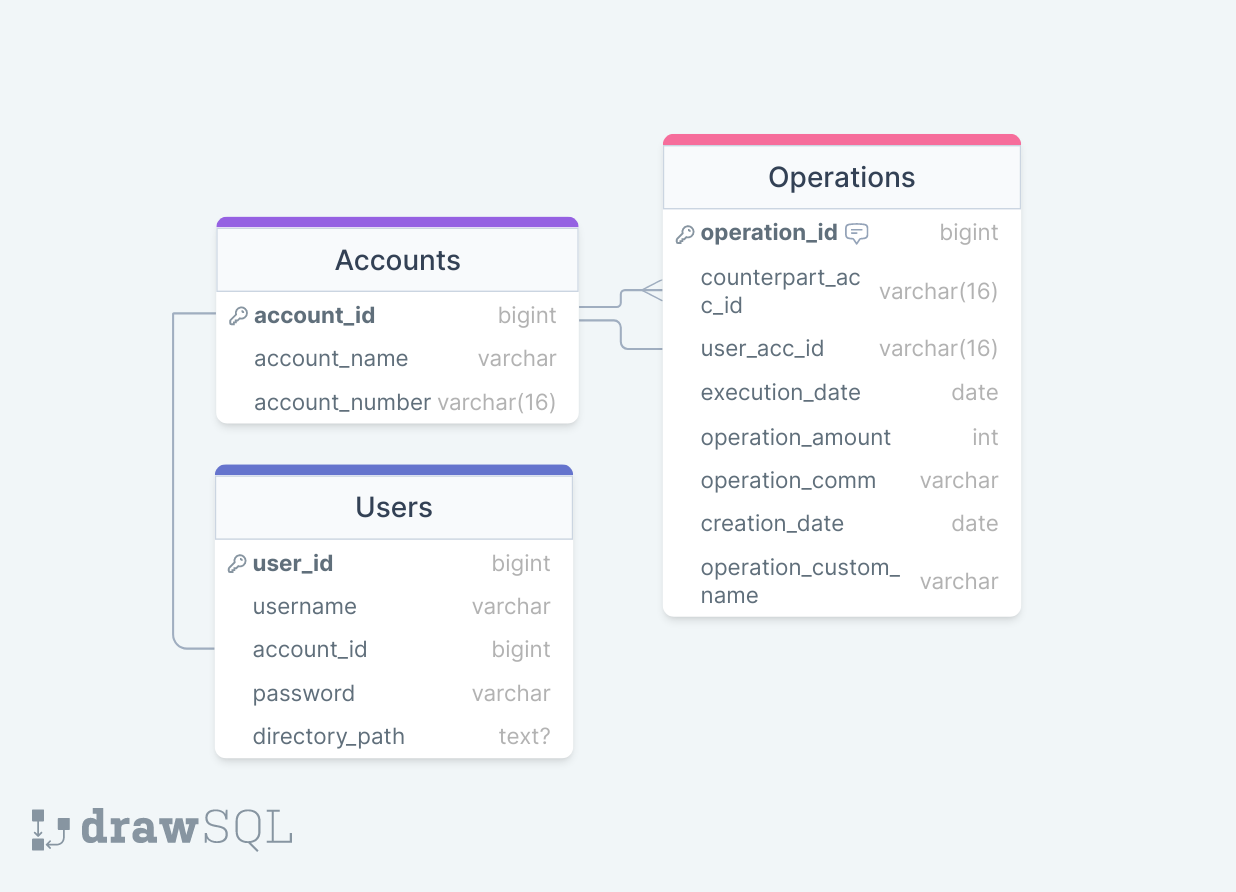
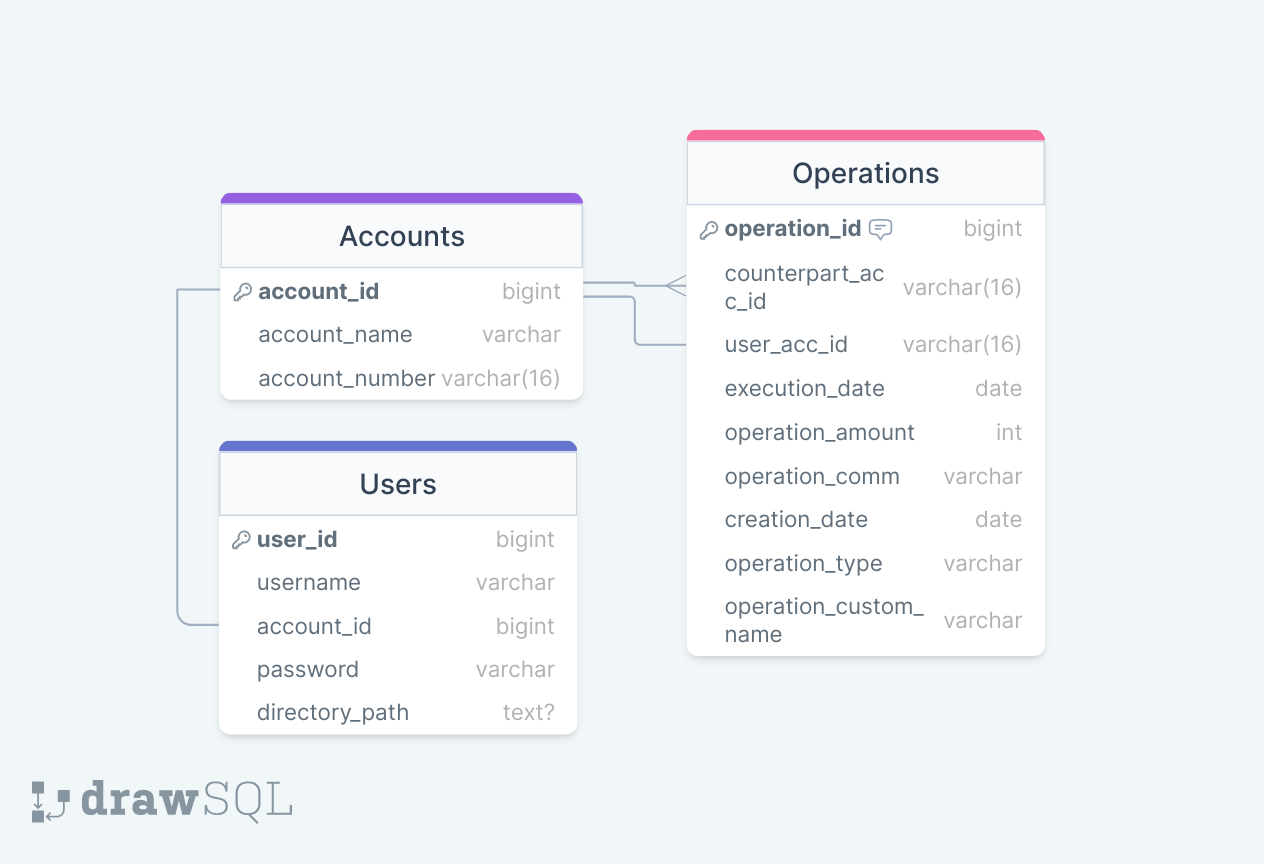
Upd Db design

diff --git a/Features/Overview.md b/Features/Overview.md
@@ -5,6 +5,7 @@
  - Filter grouped expenses
  - Give the total income
  - Give the total expense
+ - Security
 
 # Long term features
 
@@ -17,6 +18,7 @@
  - Upload a ZIP/RAR/Compressed file with multiple expense sheets in CSV
  - Add more file support
  - List, download and delete precedent files
+ - Allow the user to configure the column used for data selection
 
 # Containerization
 - Should host the db

diff --git a/Database Design.md b/Database Design.md
@@ -18,6 +18,8 @@ This table contains every operations that is handled by the CSV processing.
 | operation_comm | The communication specified in the operation |
 | creation_date | The date of creation of the entry |
 | operation_custom_name | Name choosed by the user for a specific operation|
+| operation_type | The type of operation performed (Withdraw, payment, ...) |
+
 
 ## Accounts
 

diff --git a/Models.md b/Models.md
@@ -7,7 +7,7 @@ Operation should have :
  - a linked Account (acc number col: 0 + acc name: 2)
  - a linked counterpart Account (acc number col: 12 + acc name col: 14)
  - a date (col: 5)
- - a description (col: 6)
+ - an operation type (col: 6)
  - an amount (col: 8)
  - a communication (col: 16 OR 17)
 
